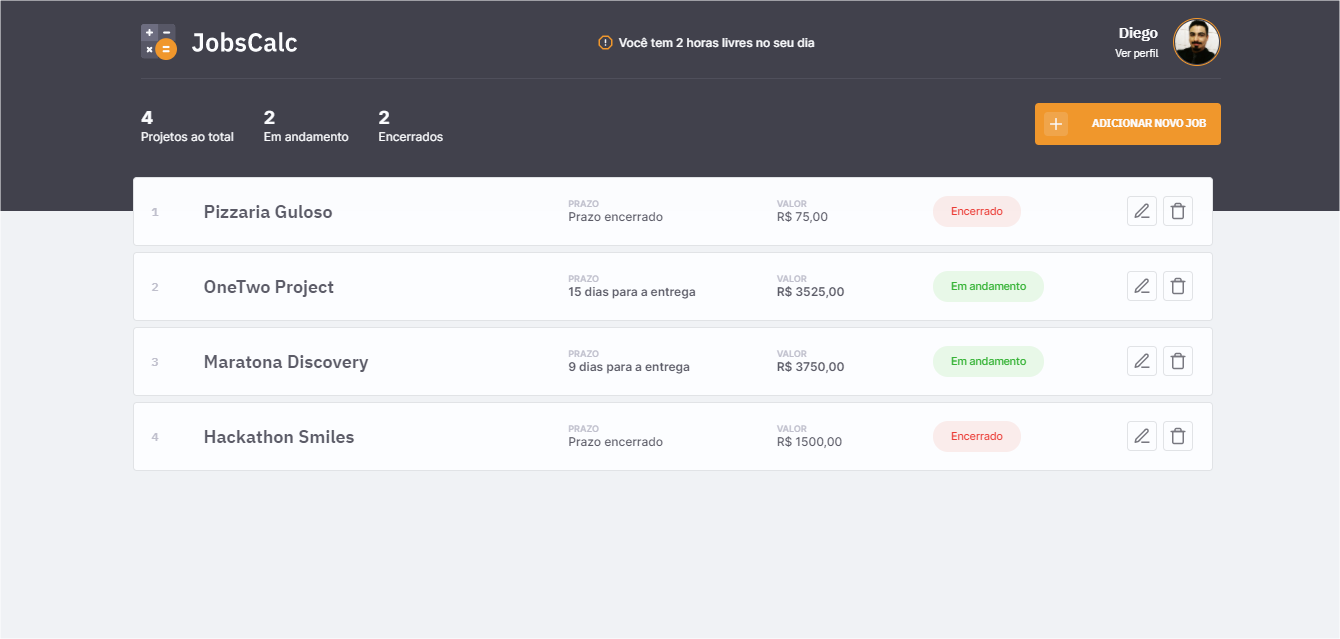
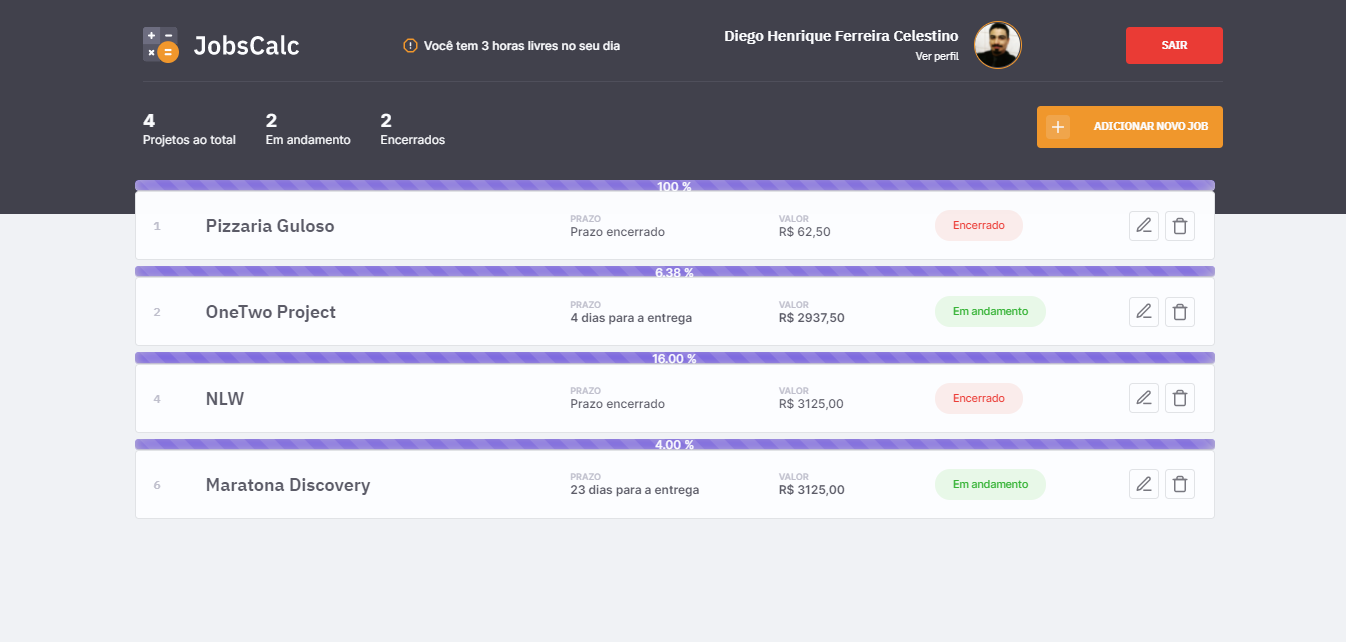
Adicionado fotos e ajustado o index

diff --git a/public/styles/pages/index.css b/public/styles/pages/index.css
@@ -314,7 +314,7 @@ main {
   .progresso-barra {
     border-radius: 0.313rem;
     /*width: 10%; /*porcentagem da barra de progresso*/
-    width: calc(100% - 20%);
+    /*width: calc(100% - 20%);*/
     height: 15px;
     background-color: #502ee9;
     -webkit-box-shadow: inset 0 -1px 0 rgba(0,0,0,.15);

diff --git a/public/scripts/index.js b/public/scripts/index.js
@@ -20,3 +20,4 @@ for (let card of cards) {
 
 
 
+
